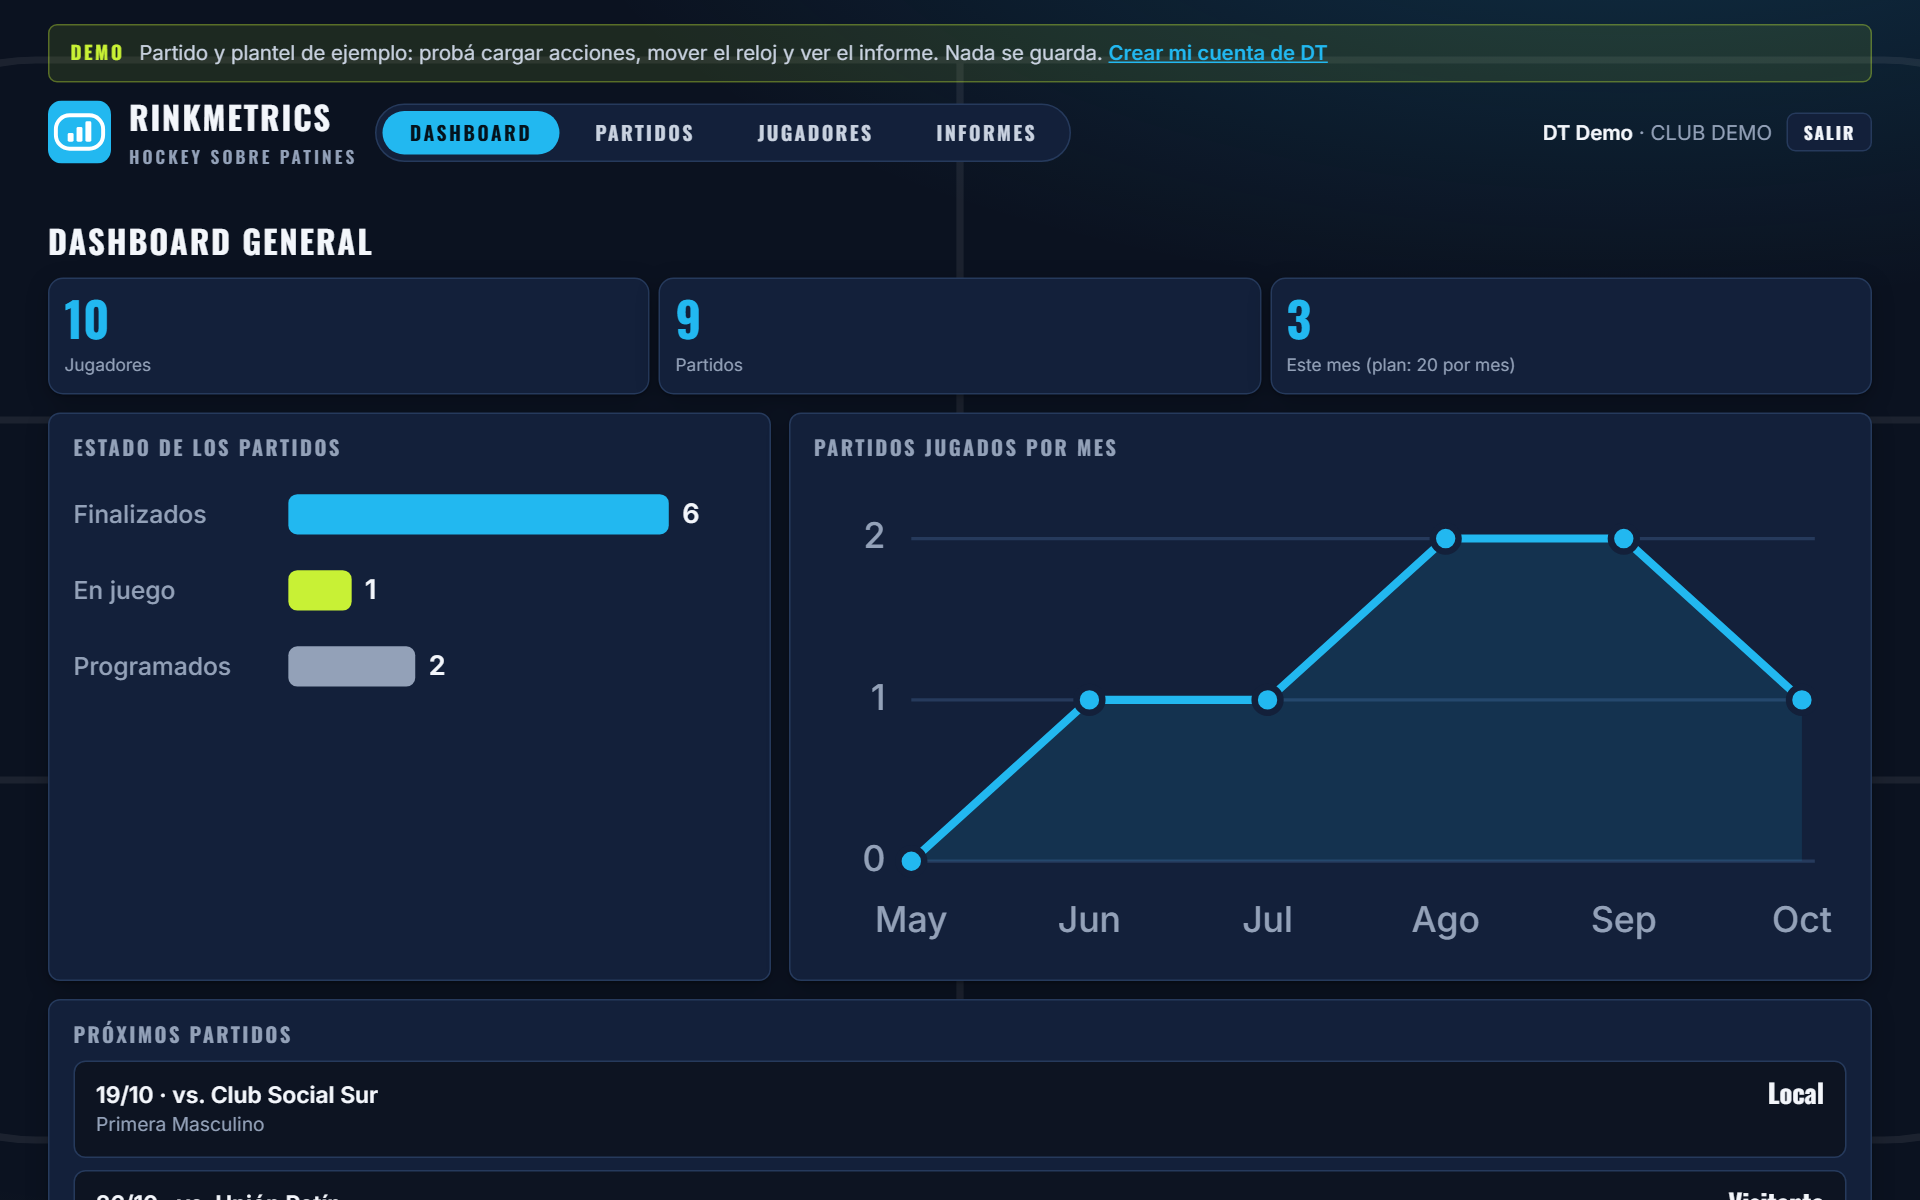
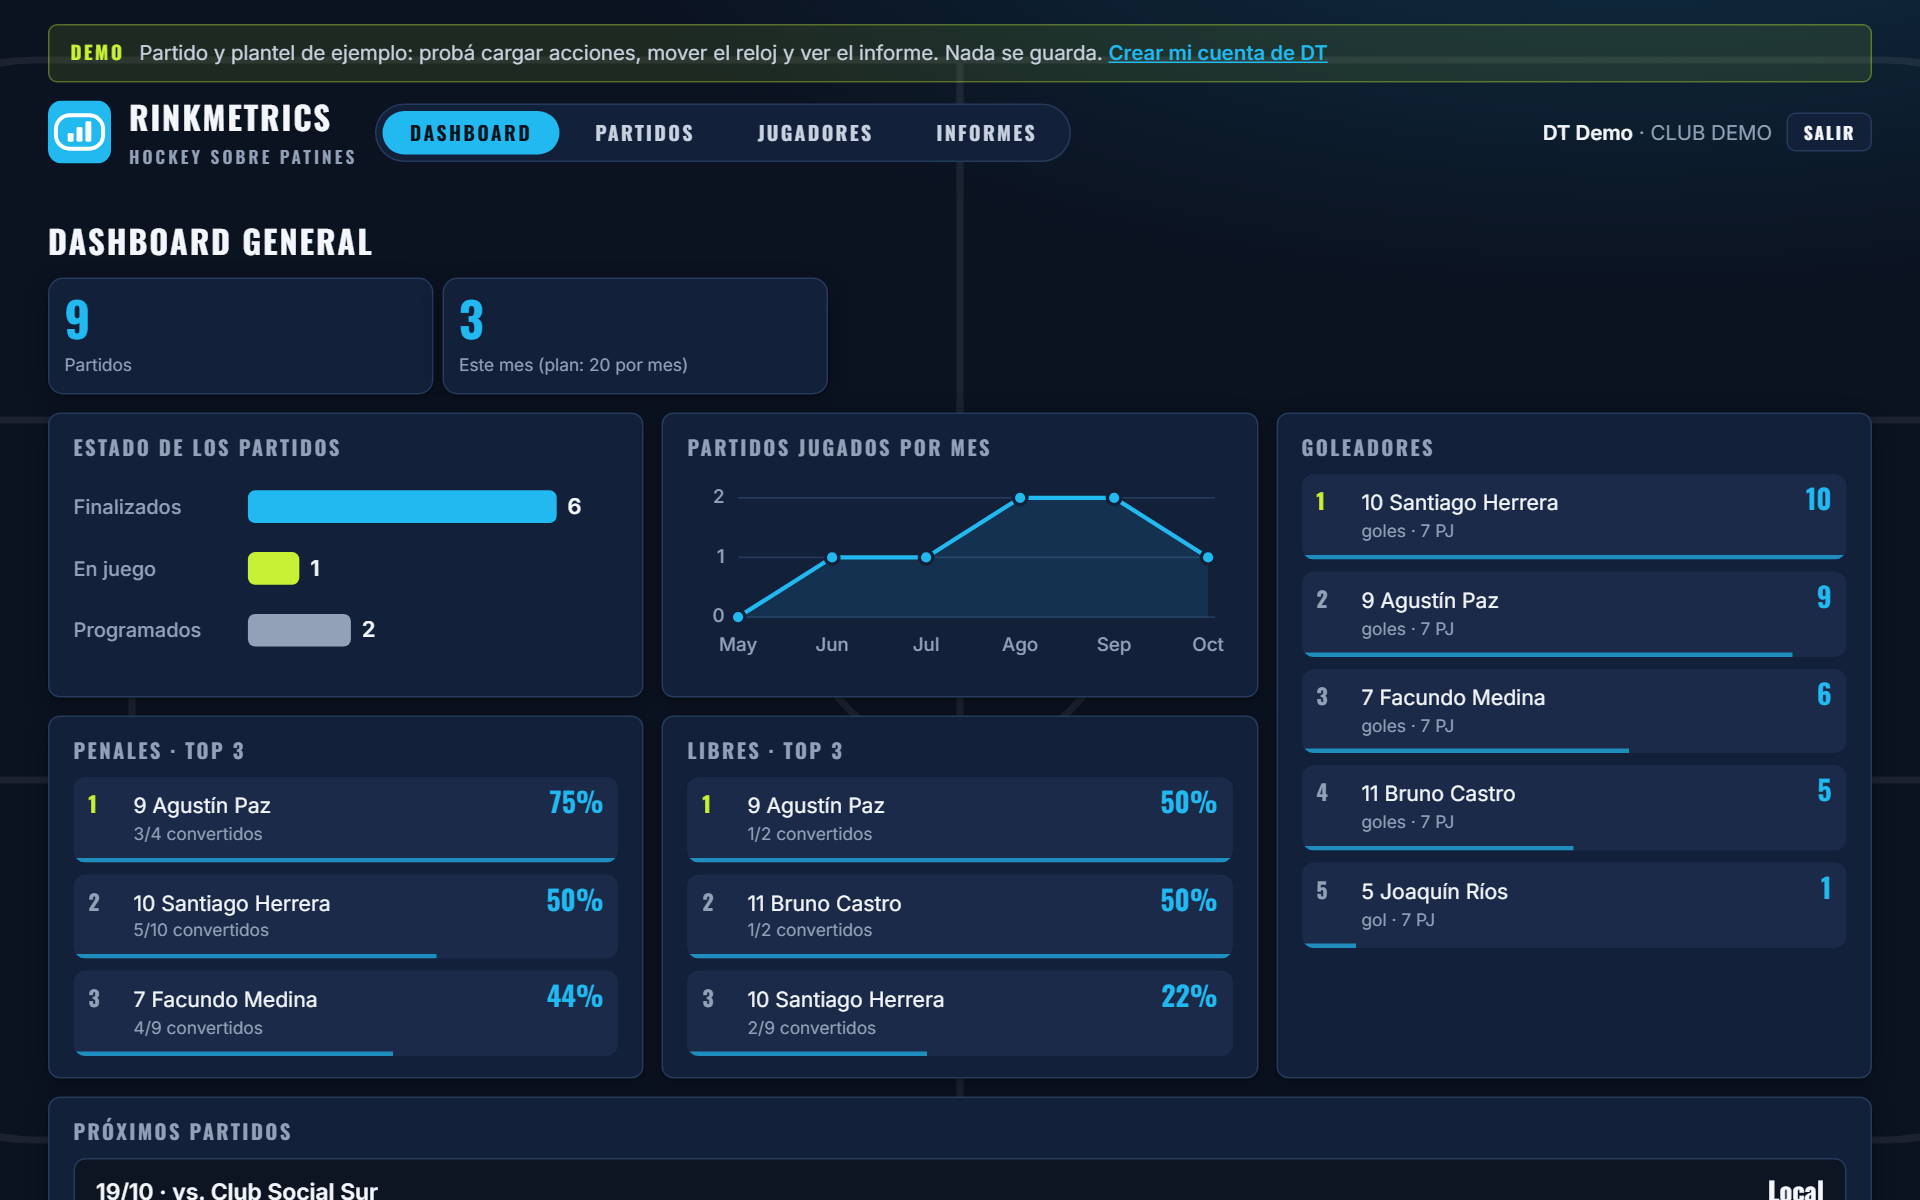
Dashboard DT: goleadores y top 3 de penales y libres
- Sin el total de jugadores; gráfico de partidos por mes más bajo.
- Goleadores del equipo (top 5) y top 3 en efectividad de penales y de libres.
- Métricas DT sin la leyenda de SIDGAD al pie.
- La demo carga penales y libres convertidos; capturas y README al día.

diff --git a/src/main/resources/static/js/dt.js b/src/main/resources/static/js/dt.js
@@ -601,19 +601,20 @@
 
     async function cargarDashboard() {
         try {
-            const [lista, planteles] = await Promise.all([
+            const q = e => `categoria=${encodeURIComponent(e.categoria)}&rama=${encodeURIComponent(e.rama)}`;
+            const [lista, planteles, acciones] = await Promise.all([
                 getJson("/api/dt/partidos").then(r => r.data),
-                Promise.all(sesion.equipos.map(e => getJson(`/api/dt/plantel?categoria=${encodeURIComponent(e.categoria)}`
-                    + `&rama=${encodeURIComponent(e.rama)}`).then(r => r.data).catch(() => []))),
+                Promise.all(sesion.equipos.map(e => getJson("/api/dt/plantel?" + q(e)).then(r => r.data).catch(() => []))),
+                Promise.all(sesion.equipos.map(e => getJson("/api/dt/acciones?" + q(e)).then(r => r.data).catch(() => []))),
             ]);
             const d = DtFichas.dashboard(lista, hoy());
-            $("d-jugadores").textContent = new Set(planteles.flat().map(j => j.id)).size;
             $("d-partidos").textContent = d.partidos;
             $("d-mes").textContent = d.esteMes;
             const cupo = sesion.suscripcion && sesion.suscripcion.partidosPorMes;
             $("d-mes-label").textContent = cupo ? `Este mes (plan: ${cupo} por mes)` : "Este mes";
             $("d-estados").innerHTML = DtFichas.barrasEstado(d.estados);
             $("d-meses").innerHTML = DtFichas.lineaMeses(d.meses);
+            rankings(acciones.flat(), planteles.flat().map(j => ({key: "j" + j.id, numero: j.numero, nombre: j.nombre, arquero: j.arquero})));
             const ul = $("d-proximos");
             ul.replaceChildren();
             if (!d.proximos.length) ul.append(el("li", "dt-vacio", "No hay partidos programados. Creá uno con fecha futura en Partidos."));
@@ -629,6 +630,40 @@
         } catch (err) {
             $("d-estados").textContent = "No se pudo cargar el dashboard: " + err.message;
         }
+    }
+
+    /**
+     * Goleadores del equipo (los 5 con más goles) y los 3 mejores en penales y en libres a favor (por efectividad; a
+     * igual efectividad, el que más pateó), con todas las acciones cargadas en los partidos del DT.
+     */
+    function rankings(acciones, plantelTodos) {
+        const js = DtInforme.armar({titulo: "", detalle: "", unPartido: false, partidos: [], acciones,
+            jugadores: plantelTodos, nombreAccion: accion}).jugadores;
+        const pintar = (id, filas, vacio) => {
+            const ol = $(id);
+            ol.replaceChildren();
+            if (!filas.length) { ol.append(el("li", "dt-vacio", vacio)); return; }
+            const max = Math.max(...filas.map(f => f.barra));
+            filas.forEach((f, i) => {
+                const li = el("li");
+                const barra = el("span", "barra");
+                barra.style.width = (max ? 100 * f.barra / max : 0) + "%";
+                li.append(el("span", "pos", String(i + 1)), el("span", "quien", `${f.j.numero ? f.j.numero + " " : ""}${f.j.nombre}`),
+                    el("b", null, f.valor), el("small", null, f.detalle || ""), barra);
+                ol.append(li);
+            });
+        };
+        pintar("d-goleadores", js.filter(j => j.metricas.goles > 0)
+            .sort((a, b) => b.metricas.goles - a.metricas.goles || a.nombre.localeCompare(b.nombre, "es")).slice(0, 5)
+            .map(j => ({j, valor: String(j.metricas.goles), barra: j.metricas.goles,
+                detalle: `${j.metricas.goles === 1 ? "gol" : "goles"} · ${j.partidos} PJ`})),
+            "Todavía no hay goles cargados.");
+        const top = (gol, total, vacio, id) => pintar(id, js.filter(j => j.metricas[total] > 0)
+            .map(j => ({j, pct: Math.round(100 * j.metricas[gol] / j.metricas[total]), a: j.metricas[gol], b: j.metricas[total]}))
+            .sort((x, y) => y.pct - x.pct || y.b - x.b || x.j.nombre.localeCompare(y.j.nombre, "es")).slice(0, 3)
+            .map(x => ({j: x.j, valor: x.pct + "%", barra: x.pct, detalle: `${x.a}/${x.b} convertidos`})), vacio);
+        top("penalesGol", "penales", "Todavía no hay penales a favor cargados.", "d-penales");
+        top("libresGol", "libres", "Todavía no hay libres a favor cargados.", "d-libres");
     }
 
     // ---------- Informes ----------

diff --git a/src/main/resources/static/css/app.css b/src/main/resources/static/css/app.css
@@ -550,9 +550,13 @@ nav.secciones a { white-space: nowrap; }
 .dash-box { padding: 14px 16px; background: var(--panel); border: 1px solid var(--line); border-radius: var(--radius); box-shadow: var(--shadow); }
 .dash-box h3 { margin: 0 0 10px; font: 700 .85rem/1.2 var(--display); letter-spacing: .12em; text-transform: uppercase; color: var(--muted); }
 .dash-proximos .btn { margin-top: 12px; }
-@media (min-width: 900px) {
-    .dash-grid { grid-template-columns: minmax(0, 1fr) minmax(0, 1.5fr); }
+@media (min-width: 640px) {
+    .dash-grid { grid-template-columns: repeat(2, minmax(0, 1fr)); }
     .dash-proximos { grid-column: 1 / -1; }
+}
+@media (min-width: 1100px) {
+    .dash-grid { grid-template-columns: repeat(3, minmax(0, 1fr)); }
+    .dash-goleadores { grid-row: span 2; }
 }
 .grafico { width: 100%; height: auto; display: block; }
 .grafico .eje { font: 500 11px var(--body); fill: var(--muted); }
@@ -648,3 +652,17 @@ body.dt-vivo .dt-menu { display: none; }
 .topbar .dt-menu { margin: 0 auto 0 0; }
 @media (max-width: 760px) { .topbar .dt-menu { order: 3; width: 100%; max-width: none; justify-content: space-between; } }
 @media (max-width: 480px) { .topbar .dt-menu a { flex: 1 1 auto; text-align: center; padding: 8px 6px; font-size: .72rem; letter-spacing: .06em; } }
+
+/* Dashboard: dos totales, gráfico de partidos por mes más bajo y rankings de goleadores, penales y libres. */
+.dash-kpis { grid-template-columns: repeat(2, minmax(0, 1fr)); max-width: 520px; }
+#d-meses .grafico { max-height: 150px; }
+.dash-ranking { list-style: none; margin: 0; padding: 0; display: grid; gap: 8px; }
+.dash-ranking li { position: relative; display: grid; grid-template-columns: 22px minmax(0, 1fr) auto; gap: 0 8px; align-items: baseline;
+                   padding: 7px 10px 9px; border-radius: 8px; background: var(--panel-2); overflow: hidden; }
+.dash-ranking li.dt-vacio { display: block; background: none; padding: 0; }
+.dash-ranking .pos { font: 700 .9rem/1 var(--display); color: var(--muted); }
+.dash-ranking li:first-child .pos { color: var(--lime); }
+.dash-ranking .quien { font-size: .88rem; color: var(--ink); white-space: nowrap; overflow: hidden; text-overflow: ellipsis; }
+.dash-ranking b { font: 700 1.15rem/1 var(--display); color: var(--accent); text-align: right; }
+.dash-ranking small { grid-column: 2 / -1; font-size: .72rem; color: var(--muted); }
+.dash-ranking .barra { position: absolute; left: 0; bottom: 0; height: 3px; background: var(--accent); opacity: .7; }

diff --git a/src/main/resources/static/dt-demo.html b/src/main/resources/static/dt-demo.html
@@ -33,13 +33,15 @@
     <section id="v-dashboard" class="dt-vista" hidden>
         <h2 class="section-title">Dashboard general</h2>
         <div class="dt-kpis dash-kpis">
-            <div class="dt-kpi"><b id="d-jugadores">–</b><span>Jugadores</span></div>
             <div class="dt-kpi"><b id="d-partidos">–</b><span>Partidos</span></div>
             <div class="dt-kpi"><b id="d-mes">–</b><span id="d-mes-label">Este mes</span></div>
         </div>
         <div class="dash-grid">
             <div class="dash-box"><h3>Estado de los partidos</h3><div id="d-estados"></div></div>
             <div class="dash-box"><h3>Partidos jugados por mes</h3><div id="d-meses"></div></div>
+            <div class="dash-box dash-goleadores"><h3>Goleadores</h3><ol class="dash-ranking" id="d-goleadores"></ol></div>
+            <div class="dash-box"><h3>Penales · Top 3</h3><ol class="dash-ranking" id="d-penales"></ol></div>
+            <div class="dash-box"><h3>Libres · Top 3</h3><ol class="dash-ranking" id="d-libres"></ol></div>
             <div class="dash-box dash-proximos"><h3>Próximos partidos</h3><ul class="dt-lista" id="d-proximos"></ul>
                 <a class="btn primary" href="#partidos">Programar un partido</a></div>
         </div>
@@ -200,8 +202,6 @@
         </section>
     </section>
 
-    <footer><b>RinkMetrics</b> · Calendario y planteles: Federación Porteña de Patín (FPP) y Asociación Mendocina de
-        Patín (AMP), en SIDGAD.</footer>
 </div>
 
 <div class="dt-toast" id="toast" role="status" hidden><span id="toast-txt"></span><button type="button" id="toast-undo">Deshacer</button></div>

diff --git a/src/main/resources/static/dt.html b/src/main/resources/static/dt.html
@@ -31,13 +31,15 @@
     <section id="v-dashboard" class="dt-vista" hidden>
         <h2 class="section-title">Dashboard general</h2>
         <div class="dt-kpis dash-kpis">
-            <div class="dt-kpi"><b id="d-jugadores">–</b><span>Jugadores</span></div>
             <div class="dt-kpi"><b id="d-partidos">–</b><span>Partidos</span></div>
             <div class="dt-kpi"><b id="d-mes">–</b><span id="d-mes-label">Este mes</span></div>
         </div>
         <div class="dash-grid">
             <div class="dash-box"><h3>Estado de los partidos</h3><div id="d-estados"></div></div>
             <div class="dash-box"><h3>Partidos jugados por mes</h3><div id="d-meses"></div></div>
+            <div class="dash-box dash-goleadores"><h3>Goleadores</h3><ol class="dash-ranking" id="d-goleadores"></ol></div>
+            <div class="dash-box"><h3>Penales · Top 3</h3><ol class="dash-ranking" id="d-penales"></ol></div>
+            <div class="dash-box"><h3>Libres · Top 3</h3><ol class="dash-ranking" id="d-libres"></ol></div>
             <div class="dash-box dash-proximos"><h3>Próximos partidos</h3><ul class="dt-lista" id="d-proximos"></ul>
                 <a class="btn primary" href="#partidos">Programar un partido</a></div>
         </div>
@@ -198,8 +200,6 @@
         </section>
     </section>
 
-    <footer><b>RinkMetrics</b> · Calendario y planteles: Federación Porteña de Patín (FPP) y Asociación Mendocina de
-        Patín (AMP), en SIDGAD.</footer>
 </div>
 
 <div class="dt-toast" id="toast" role="status" hidden><span id="toast-txt"></span><button type="button" id="toast-undo">Deshacer</button></div>

diff --git a/src/main/resources/static/js/dt-demo.js b/src/main/resources/static/js/dt-demo.js
@@ -50,13 +50,14 @@
     const CAMPO = PLANTEL.filter(j => !j.arquero).map(j => j.id);
     const TIPOS = [["PERDIDA", "PROPIO"], ["PERDIDA", "RIVAL"], ["RECUPERACION", "PROPIO"], ["RECUPERACION", "RIVAL"],
         ["RECUPERACION", "RIVAL"], ["TIRO", "GOL"], ["TIRO", "NO_GOL"], ["TIRO", "NO_GOL"], ["FALTA", "COMETIDA"],
-        ["FALTA", "RECIBIDA"], ["LIBRE_FAVOR", "NO_GOL"], ["TARJETA", "AMARILLA"]];
+        ["FALTA", "RECIBIDA"], ["LIBRE_FAVOR", "NO_GOL"], ["LIBRE_FAVOR", "GOL"], ["PENAL_FAVOR", "GOL"],
+        ["PENAL_FAVOR", "NO_GOL"], ["TARJETA", "AMARILLA"]];
     function jugado(id, rival, fecha, local, torneo) {
         const acciones = [];
         for (let i = 0; i < 26; i++) {
             const [tipo, res] = elegir(TIPOS);
             // Los delanteros (7, 9, 10) tiran más; el resto recupera más.
-            const j = tipo === "TIRO" ? elegir([105, 107, 108, 108, 109]) : elegir(CAMPO);
+            const j = ["TIRO", "PENAL_FAVOR", "LIBRE_FAVOR"].includes(tipo) ? elegir([105, 107, 108, 108, 109]) : elegir(CAMPO);
             acciones.push(accion(j, tipo, res, 1 + (i % 2), Math.floor(azar() * DUR)));
         }
         for (let i = 0; i < 4; i++) acciones.push(accion(elegir([101, 101, 102]), elegir(["ATAJADA", "ATAJADA", "GOL_RECIBIDO"]), null, 1 + (i % 2), Math.floor(azar() * DUR)));

diff --git a/src/main/resources/static/js/dt-fichas.js b/src/main/resources/static/js/dt-fichas.js
@@ -194,7 +194,7 @@ const DtFichas = (() => {
 
     /** Partidos jugados por mes: eje X los meses, eje Y la cantidad. */
     function lineaMeses(meses) {
-        const W = 320, H = 150, x0 = 30, y0 = 120, ancho = W - x0 - 14, alto = 100;
+        const W = 320, H = 112, x0 = 30, y0 = 84, ancho = W - x0 - 14, alto = 70;
         const max = Math.max(2, ...meses.map(m => m.cantidad));
         const paso = ancho / (meses.length - 1);
         const pts = meses.map((m, i) => [x0 + i * paso, y0 - alto * m.cantidad / max]);

diff --git a/README.md b/README.md
@@ -248,8 +248,9 @@ perfil decide de dónde salen los clubes, las categorías, los jugadores y los i
   las acciones. Tablas `partido_dt` y `accion_dt` (V12). Un partido cerrado se puede reabrir durante 48 h.
 - **Métricas DT: menú, dashboard, fichas e informes.** La pantalla del DT tiene un menú Dashboard · Partidos ·
   Jugadores · Informes (entra al dashboard).
-  - **Dashboard general:** jugadores del plantel, partidos cargados y del mes; estado de los partidos (programados =
-    creados con fecha futura y sin iniciar, en juego, finalizados); partidos jugados por mes (los últimos 6) y los
+  - **Dashboard general:** partidos cargados y del mes; estado de los partidos (programados = creados con fecha
+    futura y sin iniciar, en juego, finalizados); partidos jugados por mes (los últimos 6); goleadores del equipo (los
+    5 con más goles); top 3 en efectividad de penales y de libres a favor (a igual efectividad, el que más pateó); y los
     próximos partidos.
   - **Jugadores:** la ficha de cada uno, con índice (0 a 100) y un pentágono de cinco ejes comparados con el plantel
     (100 = el mejor del equipo): ataque, precisión, desequilibrio (faltas recibidas), recuperación (balance con las
